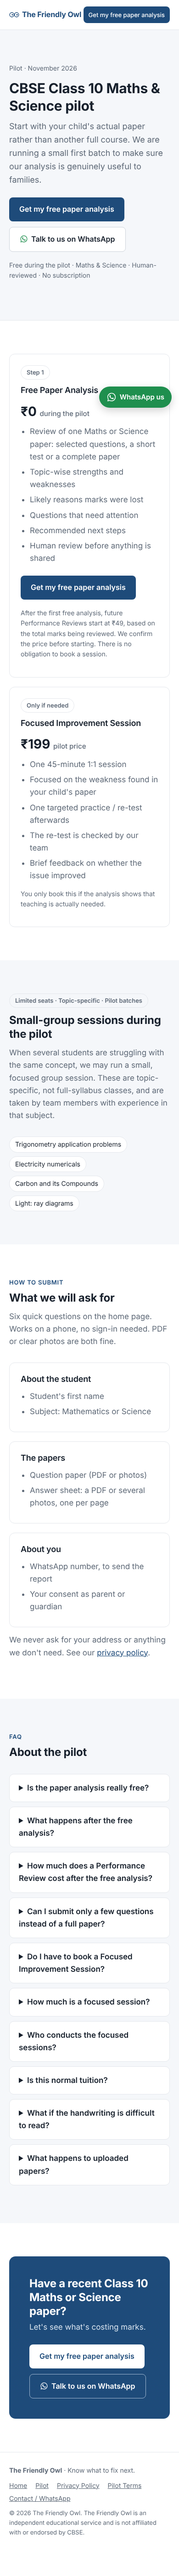
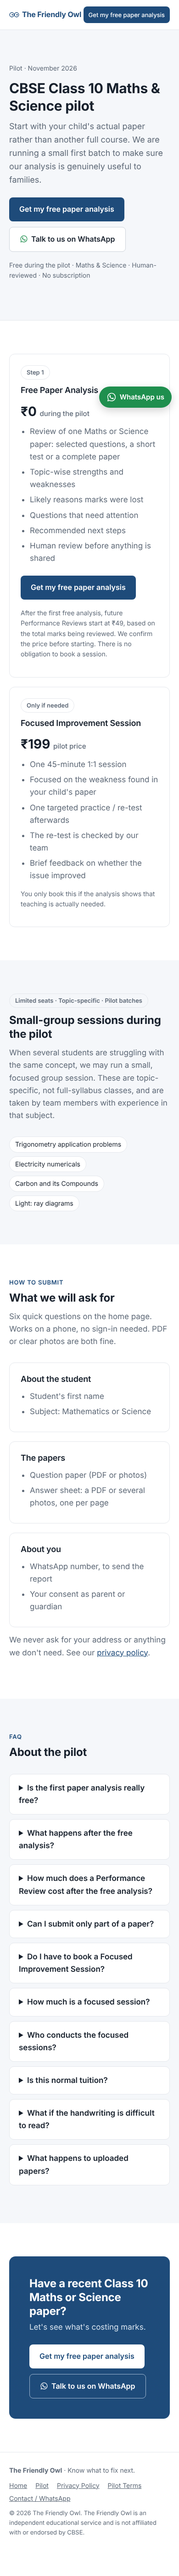
Edit 6: pricing and FAQ wording, privacy sentence on how papers are used
Claude-Session: https://claude.ai/code/session_01SQ4teHX7nhwHwNECYYUvjr

Changed region(s): [[0.0923, 0.6854, 0.8615, 0.7477]]

diff --git a/index.html b/index.html
@@ -103,7 +103,7 @@
     <div class="card review-price">
       <div class="rp-main">
         <h3>Your first paper analysis is free.</h3>
-        <p class="muted">During the pilot, your first paper analysis is free. After that, Performance Reviews are priced based on the total marks being reviewed.</p>
+        <p class="muted">During the pilot, your first CBSE Class 10 Maths or Science paper analysis is free. After that, Performance Reviews are priced based on the total marks being reviewed.</p>
         <p class="rp-from"><strong>Future Performance Reviews start at ₹49, based on the total marks being reviewed.</strong></p>
         <p class="muted small">Short tests, selected questions and full exam papers are all supported. We’ll confirm the review price before starting any paid Performance Review. <a href="#faq-pricing">See pilot pricing</a></p>
       </div>
@@ -220,7 +220,7 @@
         <h3>Your child's work stays private</h3>
         <p class="muted">We collect only the information needed to analyse the paper and communicate the report. Parent or guardian consent is required during the pilot.</p>
         <ul>
-          <li>Papers are used to provide the service and improve the pilot</li>
+          <li>Submitted papers are used to provide the requested analysis and, where permitted, to improve our analysis process</li>
           <li>You can request deletion at any time</li>
           <li>Contact details are never sold</li>
           <li>Third-party cloud and technology services may process submitted material securely</li>
@@ -261,10 +261,10 @@
       <div class="label">FAQ</div>
       <h2>Common questions</h2>
     </div>
-    <details><summary>Is the paper analysis really free?</summary><p>Yes. During the pilot, one student’s first CBSE Class 10 Maths or Science paper analysis is free. You can submit selected questions, a short test or a complete paper.</p></details>
-    <details><summary>What happens after the free analysis?</summary><p>Later papers are checked as Performance Reviews, priced based on the total marks being reviewed. Smaller tests cost less than full exam papers. Booking a Focused Improvement Session is always optional.</p></details>
+    <details><summary>Is the first paper analysis really free?</summary><p>Yes. During the pilot, the first CBSE Class 10 Maths or Science paper analysis for a student is free.</p></details>
+    <details><summary>What happens after the free analysis?</summary><p>Future Performance Reviews are paid and are priced based on the total marks being reviewed. Smaller tests and selected questions cost less than full exam papers.</p></details>
     <details id="faq-pricing"><summary>How much does a Performance Review cost after the free analysis?</summary><p>Pilot pricing is based on the total marks being reviewed:</p><ul class="slabs"><li><span>Up to 20 marks</span><b>₹49</b></li><li><span>21–40 marks</span><b>₹79</b></li><li><span>41–60 marks</span><b>₹119</b></li><li><span>61–80 marks</span><b>₹149</b></li></ul><p>We confirm the price before starting the review. The same pricing applies to Maths and Science. If the marks aren’t clear on the paper, we confirm the price after checking your submission.</p></details>
-    <details><summary>Can I submit only a few questions instead of a full paper?</summary><p>Yes. You can submit a chapter test, selected questions or part of an exam. Pricing is based on the total marks being reviewed.</p></details>
+    <details><summary>Can I submit only part of a paper?</summary><p>Yes. You can submit selected questions, a chapter test or part of an exam. Pricing for future Performance Reviews is based on the total marks being reviewed.</p></details>
     <details><summary>Is this an AI grading service?</summary><p>No. Technology helps us analyse papers, but every pilot report is human-reviewed. The goal is not simply to assign marks. It is to identify where marks are being lost and what the student should work on next.</p></details>
     <details><summary>Do you guarantee the same marks as a CBSE examiner?</summary><p>No. School and board marking can involve examiner judgment. We use CBSE-style marking principles and focus primarily on identifying learning and answer-writing gaps.</p></details>
     <details><summary>Do I need to join tuition afterwards?</summary><p>No. The report may recommend practice, revision or a focused teaching session, depending on the gap.</p></details>

diff --git a/pilot.html b/pilot.html
@@ -112,10 +112,10 @@
       <div class="label">FAQ</div>
       <h2>About the pilot</h2>
     </div>
-    <details><summary>Is the paper analysis really free?</summary><p>Yes. During the pilot, one student’s first CBSE Class 10 Maths or Science paper analysis is free. You can submit selected questions, a short test or a complete paper.</p></details>
-    <details><summary>What happens after the free analysis?</summary><p>Later papers are checked as Performance Reviews, priced based on the total marks being reviewed. Smaller tests cost less than full exam papers. Booking a Focused Improvement Session is always optional.</p></details>
+    <details><summary>Is the first paper analysis really free?</summary><p>Yes. During the pilot, the first CBSE Class 10 Maths or Science paper analysis for a student is free.</p></details>
+    <details><summary>What happens after the free analysis?</summary><p>Future Performance Reviews are paid and are priced based on the total marks being reviewed. Smaller tests and selected questions cost less than full exam papers.</p></details>
     <details id="faq-pricing"><summary>How much does a Performance Review cost after the free analysis?</summary><p>Pilot pricing is based on the total marks being reviewed:</p><ul class="slabs"><li><span>Up to 20 marks</span><b>₹49</b></li><li><span>21–40 marks</span><b>₹79</b></li><li><span>41–60 marks</span><b>₹119</b></li><li><span>61–80 marks</span><b>₹149</b></li></ul><p>We confirm the price before starting the review. The same pricing applies to Maths and Science. If the marks aren’t clear on the paper, we confirm the price after checking your submission.</p></details>
-    <details><summary>Can I submit only a few questions instead of a full paper?</summary><p>Yes. You can submit a chapter test, selected questions or part of an exam. Pricing is based on the total marks being reviewed.</p></details>
+    <details><summary>Can I submit only part of a paper?</summary><p>Yes. You can submit selected questions, a chapter test or part of an exam. Pricing for future Performance Reviews is based on the total marks being reviewed.</p></details>
     <details><summary>Do I have to book a Focused Improvement Session?</summary><p>No. The paper analysis is independent.</p></details>
     <details><summary>How much is a focused session?</summary><p>The pilot price is ₹199. It includes one 45-minute focused session and one targeted practice/re-test that we check afterwards.</p></details>
     <details><summary>Who conducts the focused sessions?</summary><p>Our focused sessions are conducted by members of The Friendly Owl mentoring team, who have several years of experience teaching Mathematics and Science.</p></details>

diff --git a/privacy.html b/privacy.html
@@ -30,7 +30,7 @@
 <ul><li>The student's first name and subject</li><li>The question paper and answer sheet you upload (PDF or photos)</li><li>The parent or guardian's WhatsApp number, and anything you tell us on WhatsApp</li></ul>
 <p>We do not ask for addresses, school names or other details we don't need.</p>
 <h2>Why we use it</h2>
-<ul><li>To prepare the analysis you asked for and send it to you</li><li>To run any session or re-test you choose to book</li><li>To improve the pilot service, for example by checking how accurate our analysis was</li></ul>
+<ul><li>To prepare the analysis you asked for and send it to you</li><li>To run any session or re-test you choose to book</li><li>Where permitted, to improve our analysis process, for example by checking how accurate our analysis was</li></ul>
 <p>We never publish answer sheets or share them with other students or families.</p>
 <h2>Who processes it</h2>
 <p>Our team reviews every analysis before it is shared. Software and cloud services (for example, our upload form provider Fillout, file storage and AI-assisted analysis) help us process the papers. We use them only for the purposes above.</p>
